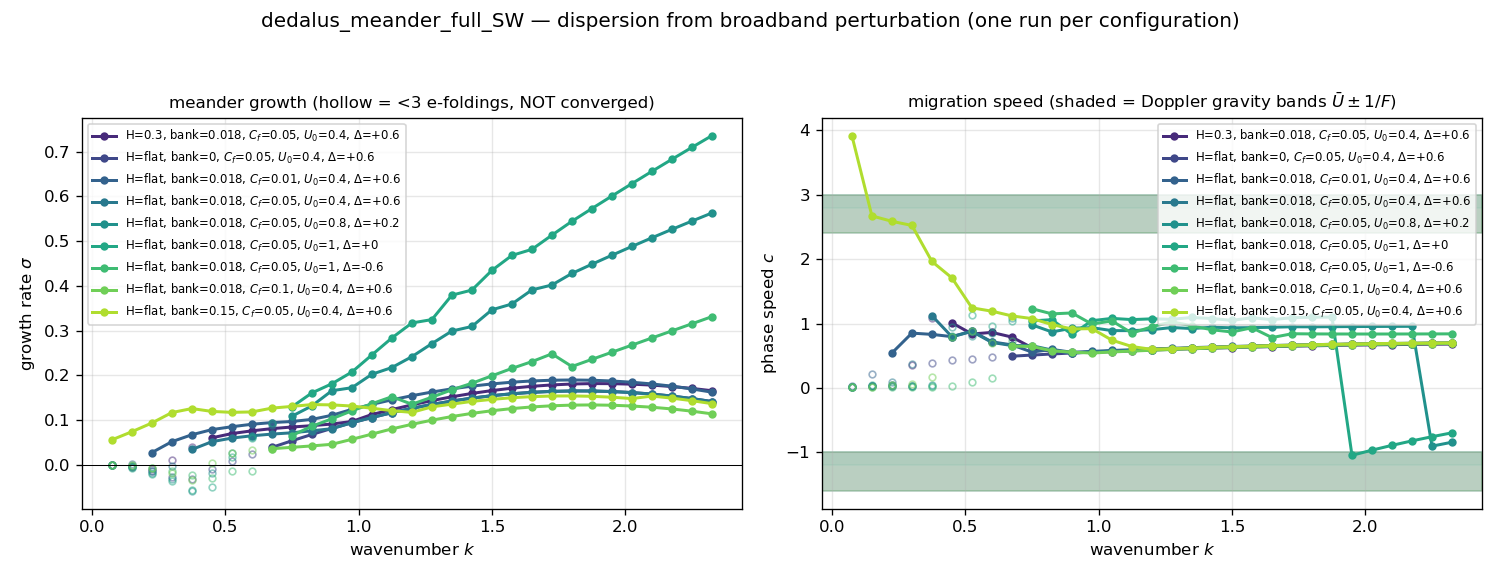
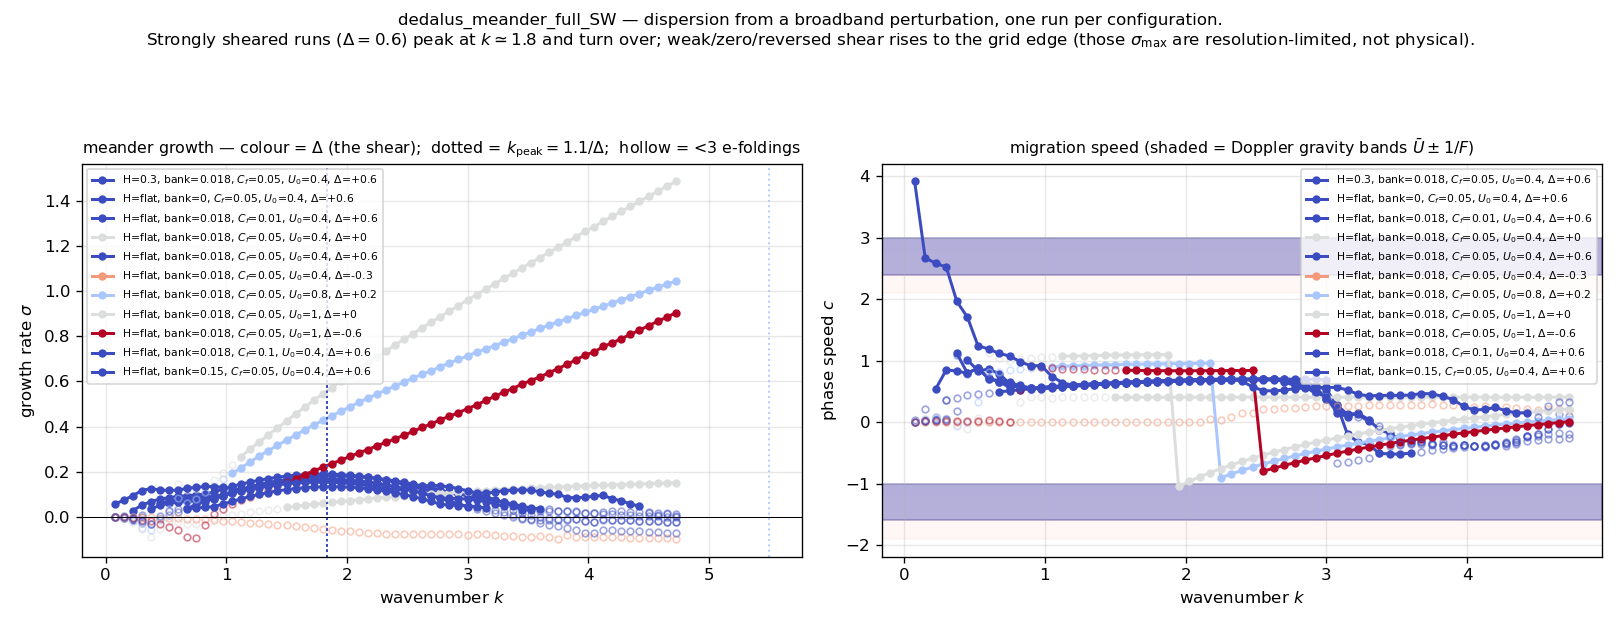
full_SW: controls overturn two conclusions; cutoff is shear, not viscosity
Ns=128 + two matched controls forced three corrections. Data (11 runs) was fine;
the docs were asserting conclusions their own data refutes.

1. CONFOUND (inverts the decisive experiment). Ubar_s = U0 + Delta(1-n^2/b^2) has
   only two constants, so removing Delta must change either the bank speed or the
   centre speed -- no clean control exists. The original configs varied Delta while
   also raising U0 0.4 -> 1.0, and the Ikeda erosion law reads u_s AT THE BANK, so
   "removed the channel-beta" was conflated with "sped up the bank".
   At matched bank speed U0=0.40, compared at the fixed resolved k=1.8:
       Delta=+0.6  sigma=+0.1649   grows
       Delta= 0.0  sigma=+0.0599   grows, 2.75x SLOWER  (was claimed FASTER)
       Delta=-0.3  sigma=-0.0526   STABLE               (was claimed to grow)
   Survives: sigma>0 with the vorticity gradient identically zero => not
   beta-restored. Deleted: "grows fastest", "most informative thing in the table".
   Both controls added to experiments.py as first-class configs.

2. The k~1.8 peak is the SHEAR cutoff, not the viscous one. Fitting sigma=ak-bk^2:
   nu=0.003 but b~0.079 (26x nu), and b tracks Delta (0.079/0.038/0.033/-0.003 for
   Delta=0.6/0.2/0/-0.6; reversed shear anti-damps). k_peak*Delta = 1.10 +/- 3%
   across Cf x10, flat->parabolic bed, bank 0->0.15. The old argument ("k_max barely
   moves across 10x Cf, so it is the nu cutoff") was under-determined: all six of
[…]

diff --git a/numerical/dedalus_meander_full_SW/derivations/sw_sn_meander.tex b/numerical/dedalus_meander_full_SW/derivations/sw_sn_meander.tex
@@ -465,15 +465,21 @@ regulariser.
 Three consequences must be stated plainly, because they bound what any result here
 can mean.
 
-\paragraph{(i) No sediment, therefore no wavelength selection.} The bed $H$ is
-prescribed and only the banks move. Meander wavelength selection is understood as a
-resonance between the forced bend flow and the \emph{free alternate-bar mode of the
-sediment bed} \cite{blondeaux1985,seminara2006,camporeale2007}. With the bed frozen
-that free mode does not exist, so this model \emph{cannot} select a wavelength: the
-$C'=-\partial_s^2\zeta_c$ forcing scales as $k^2$ while the response scales as $k$,
-giving $\sigma$ growing monotonically with $k$ until the artificial viscosity cuts
-it off. The selected wavelength is therefore set by $\nu$, not by physics, and no
-comparison with the observed $\lambda\approx10W$ \cite{leopold1960} is meaningful.
+\paragraph{(i) No sediment, therefore not the \emph{observed} wavelength selection.}
+The bed $H$ is prescribed and only the banks move. Meander wavelength selection is
+understood as a resonance between the forced bend flow and the \emph{free alternate-bar
+mode of the sediment bed} \cite{blondeaux1985,seminara2006,camporeale2007}. With the bed
+frozen that free mode does not exist. The driving is short-wave biased --- the
+$C'=-\partial_s^2\zeta_c$ forcing scales as $k^2$ while the response scales as $k$ ---
+so a preferred wavenumber can only come from whatever damps short waves.
+
+It turns out something does, and it is not the artificial viscosity: measurements in
+\S\ref{sec:results} give a $k^2$ damping coefficient about twenty-six times $\nu$, set by
+the cross-channel shear, with $k_{\rm peak}\Delta\simeq1.10$. So the model does select a
+scale --- by shear, not by bar--bend resonance. It is the wrong mechanism for a river,
+and it disappears as $\Delta\to0$ (whereupon the peak retreats to the genuine viscous
+cutoff), so no comparison with the observed $\lambda\approx10W$ \cite{leopold1960} is
+warranted. The point of this subsection stands; only the reason does not.
 
 \paragraph{(ii) The erodibility is not in the geomorphic regime.} Field calibration
 gives $E/U\sim10^{-8}$ \cite{hasegawa1977,nanson1986}; the default here is
@@ -536,32 +542,68 @@ the disturbance.}
 \label{tab:results}
 \end{table}
 
-Three readings follow, and none of them is the headline one might have hoped for.
+Four readings follow. The first kills the headline one might have hoped for; the second
+and third are corrections to earlier versions of this section that the controls forced,
+and are recorded as such rather than quietly rewritten.
 
-\paragraph{The mean flow is a sink, not the power source.} $T_{\rm shear}<0$ in every
-configuration. Whatever is growing is \emph{not} extracting wave activity from the
-background vorticity gradient, so by the criterion of \S\ref{sec:classify} it is not a
-free vortical (Rossby-type) wave. The energy comes from $T_{\rm bend}$ --- the work
-done on the fluid by the moving bank --- which is to say from the erosion closure.
+\paragraph{The mean flow is a sink, not the power source.} Across all eleven runs the
+correlation is exact: \textbf{every growing run has $T_{\rm shear}\le0$, and the single
+run with $T_{\rm shear}>0$ is the one that decays} (the matched reversed-shear control,
+$T_{\rm shear}/|T_{\rm bend}|=+0.42$, $\sigma(k{=}1.8)=-0.053$). Whenever this
+disturbance grows it is \emph{losing} energy to the background vorticity gradient rather
+than extracting it, so by the criterion of \S\ref{sec:classify} it is not a free vortical
+(Rossby-type) wave; the energy comes from $T_{\rm bend}$, the work done on the fluid by
+the moving bank. Only the \emph{sign} of this ratio should be quoted: its magnitude is
+resolution-sensitive (the reference run gives $-3.16$ at $N_s=64$ and $-0.36$ at
+$N_s=128$), because the diagnostic is evaluated on the final field and the resolved mode
+mix changes with $N_s$.
 
-\paragraph{The channel-$\beta$ is not necessary.} The sharpest test is the plug-flow
-run, $\Delta=0$: the shear, and with it the entire ``channel $\beta$'' of
-\eqref{eq:beta}, is identically zero, and $T_{\rm shear}\equiv0$ by construction. The
-meander nevertheless grows --- in fact faster than the sheared reference. A mechanism
-that survives the removal of $\beta$ cannot be a $\beta$-restored wave. The
-reversed-shear run ($\Delta<0$) grows too. This is a null result, and it is the most
-informative thing in the table.
+\paragraph{The channel-$\beta$ is not necessary --- but it is not irrelevant either,
+and an earlier version of this section got that wrong.} The profile
+$\Us=U_0+\Delta(1-n^2/b^2)$ has only two free constants, so removing $\Delta$ must
+change either the bank speed $U_0$ or the centre speed: \emph{no perfectly clean control
+exists}. The first attempt varied $\Delta$ while also raising $U_0$ from $0.4$ to $1.0$,
+and since the erosion law reads $\us$ \emph{at the bank}, that conflated ``removed the
+channel-$\beta$'' with ``sped up the bank''. The confound inverts the answer. Holding
+the bank speed fixed at the reference value and varying only $\Delta$, compared at the
+fixed well-resolved wavenumber $k=1.8$:
+\begin{center}
+\begin{tabular}{lrl}
+\hline
+$\Delta$ & $\sigma(k{=}1.8)$ & \\
+\hline
+$+0.60$ (reference) & $+0.1649$ & grows\\
+$+0.00$ ($\beta$ removed) & $+0.0599$ & grows, but $2.75\times$ \emph{slower}\\
+$-0.30$ (reversed) & $-0.0526$ & \textbf{stable} (no mode converged)\\
+\hline
+\end{tabular}
+\end{center}
+What survives is the qualitative statement: with the background vorticity gradient
+\emph{identically zero} the meander still grows ($\sigma>0$), so the mechanism does not
+require $\beta$ and cannot be a $\beta$-restored wave. What does \emph{not} survive is
+the claim that it grows \emph{faster} without $\beta$ --- that was the $U_0$ confound.
+Removing $\beta$ weakens the instability by a factor $\simeq2.75$, and reversing the
+shear at matched bank speed suppresses it altogether.
 
-\paragraph{There is no \emph{physical} wavelength selection.} The growth curve does have
-a maximum at finite $k$ in six of the nine runs ($k_{\max}\simeq1.80$--$1.88$); in the
-three weak- or reversed-shear runs it rises to the edge of the resolved band. The
-interior maximum is not a selection mechanism, and the table is what shows this:
-$k_{\max}$ barely moves while $C_f$ changes by a factor of ten, the bed goes from flat
-to a parabolic thalweg, and the bank sinuosity goes from $0$ to $0.15$. A peak whose
-position is independent of every physical parameter one varies is the viscous cutoff,
-not physics --- exactly as \S\ref{sec:notcontain}(i) predicts on structural grounds:
-with the bed frozen, nothing in the model sets a length scale except $\nu$. No
-comparison with the observed $\lambda\approx10W$ is therefore meaningful.
+\paragraph{Wavelength selection: there is one, and it comes from the shear.} This too
+corrects an earlier reading. Fitting $\sigma\simeq ak-bk^{2}$ gives $k_{\rm peak}=a/2b$,
+and the measured damping coefficient is $b\approx0.079$ while $\nu=0.003$ --- the $k^2$
+damping that produces the peak is some \textbf{twenty-six times larger than the explicit
+viscosity}, so the cutoff is not viscous. It tracks the shear instead:
+$b=0.079,\,0.038,\,0.033,\,-0.003$ for $\Delta=0.6,\,0.2,\,0.0,\,-0.6$ (reversed shear
+\emph{anti}-damps), and the peak obeys
+\begin{equation}
+  \boxed{\;k_{\rm peak}\,\Delta\simeq1.10\;}
+\end{equation}
+to within $\pm3\%$ across a tenfold change in $C_f$, a flat-to-parabolic bed, and bank
+sinuosity $0\to0.15$. The earlier argument --- ``$k_{\max}$ barely moves while $C_f$
+changes tenfold, therefore it is the $\nu$ cutoff'' --- was under-determined, because
+all six of those runs held $\Delta=0.6$; ``$\Delta$-set'' fits the same evidence, and
+varying $\Delta$ discriminates. As $\Delta\to0$ the shear damping vanishes and the peak
+retreats to a residual viscous-plus-drag cutoff ($b_0\approx0.011$, $k_{\rm peak}=4.30$).
+So the model does select a length scale, but by cross-channel shear, not by the
+bar--bend resonance of \S\ref{sec:notcontain}(i); a comparison with the observed
+$\lambda\approx10W$ remains unwarranted.
 
 \paragraph{Why the movies look untidy, and why that is not numerical noise.}
 The perturbation field never settles into a single clean travelling wave, and it is
@@ -608,12 +650,26 @@ range to the diagnostic rather than to how fast a configuration happens to grow,
 is why the fast runs are integrated over a shorter interval than the slow ones.
 
 \paragraph{What the model \emph{is}, then.} A forced morphodynamic boundary mode:
-balanced (the divergence ratio is small and $F$ barely matters, both consistent with
-the rigid-lid reduction), but driven by the erodible boundary rather than by the
-interior PV gradient. The growth rate vanishes with the erodibility, $\sigma\propto E$
---- it is not an eigenvalue of the flow alone. The useful corollary is a validation
-result: since the free surface is passive here, the rigid-lid packages in \code{../}
-are justified for $F\lesssim0.9$.
+balanced --- the divergence ratio is $\|\delta'\|/\|\zeta'\|\simeq0.010$--$0.051$, and
+$F$ barely matters, both consistent with the rigid-lid reduction --- but driven by the
+erodible boundary rather than by the interior PV gradient. The growth rate vanishes with
+the erodibility, $\sigma\propto E$: it is not an eigenvalue of the flow alone. The
+cross-channel shear then shapes it, setting both the amplitude (a factor $2.75$ between
+$\Delta=0.6$ and $\Delta=0$, and outright stability for $\Delta<0$ at matched bank speed)
+and the selected wavenumber ($k_{\rm peak}\Delta\simeq1.10$) --- but it never
+\emph{powers} it, since $T_{\rm shear}\le0$ in every growing run. The useful corollary is
+a validation result: since the free surface is passive here, the rigid-lid packages in
+\code{../} are justified for $F\lesssim0.9$.
+
+\paragraph{A methodological note worth keeping.} Two of the four readings above are
+corrections, and both were caught the same way --- not by re-deriving, but by refining a
+numerical parameter and by adding a control that held fixed the variable which had been
+riding along. The $U_0$/$\Delta$ confound was invisible at $N_s=64$ because the runs it
+corrupted were exactly the runs whose $\sigma(k)$ had not converged; doubling $N_s$ made
+their growth rates move ($\sigma_{\max}$: $0.74\to1.49$), which is what prompted the
+control in the first place. A parameter that cannot be varied independently --- here,
+because $\Us$ has only two constants --- should be treated as confounded by default and
+reported with an explicitly matched comparison, not with each run's own optimum.
 
 \begin{thebibliography}{99}
 \bibitem{ikeda1981} Ikeda, S., Parker, G. \& Sawai, K. (1981) Bend theory of river

diff --git a/numerical/dedalus_meander_full_SW/postprocessing/01_dispersion.py b/numerical/dedalus_meander_full_SW/postprocessing/01_dispersion.py
@@ -23,12 +23,21 @@ import matplotlib.pyplot as plt
 
 import pp_lib as PP
 
+# measured in the parameter study: the short-wave cutoff is set by the SHEAR, not by nu
+KD_LAW = 1.10
+
 runs = sorted(glob.glob(os.path.join(PP.OUT_DIR, "run_*.h5")))
 if not runs:
     raise SystemExit("no ../outputs/run_*.h5 — run ../sw_sn_driver.py first")
 
-fig, (ax1, ax2) = plt.subplots(1, 2, figsize=(12.5, 4.8), dpi=120)
-colors = plt.cm.viridis(np.linspace(0.12, 0.88, len(runs)))
+fig, (ax1, ax2) = plt.subplots(1, 2, figsize=(13.5, 5.2), dpi=120)
+
+# Colour by Delta, not by filename order.  Delta is what controls the short-wave cutoff
+# (k_peak*Delta ~ 1.10), so an arbitrary per-file colour hides the one systematic the
+# figure exists to show.
+_D = [float(PP.load_run(p)["attrs"]["Delta"]) for p in runs]
+_norm = plt.Normalize(min(_D + [-0.6]), max(_D + [0.6]))
+colors = [plt.cm.coolwarm_r(_norm(d)) for d in _D]
 
 for path, col in zip(runs, colors):
     r = PP.load_run(path)
@@ -43,6 +52,11 @@ for path, col in zip(runs, colors):
            f", $U_0$={float(a['U0']):.2g}, $\\Delta$={float(a['Delta']):+.2g}")
     ax1.plot(k[ok], sg[ok], "o-", color=col, lw=1.8, ms=4, label=lab)
     ax1.plot(k[~ok], sg[~ok], "o", mfc="none", color=col, ms=4, alpha=0.5)
+    # the measured law k_peak * Delta ~ 1.10: mark where it PREDICTS this run's peak,
+    # so the figure tests the claim instead of merely being consistent with it
+    D = float(a["Delta"])
+    if D > 0.05 and np.any(ok):
+        ax1.axvline(KD_LAW / D, color=col, ls=":", lw=1.2, alpha=0.85)
     ax2.plot(k[ok], c[ok], "o-", color=col, lw=1.8, ms=4, label=lab)
     ax2.plot(k[~ok], c[~ok], "o", mfc="none", color=col, ms=4, alpha=0.5)
     # Doppler-shifted gravity band: the correct reference is Ubar +/- 1/F, not 1/F
@@ -53,14 +67,19 @@ for path, col in zip(runs, colors):
 
 ax1.axhline(0, color="k", lw=0.6)
 ax1.set_xlabel(r"wavenumber $k$"); ax1.set_ylabel(r"growth rate $\sigma$")
-ax1.set_title(r"meander growth (hollow = <3 e-foldings, NOT converged)", fontsize=10)
-ax1.legend(fontsize=7); ax1.grid(alpha=0.3)
+ax1.set_title(r"meander growth — colour = $\Delta$ (the shear);  dotted = "
+              rf"$k_{{\rm peak}}={KD_LAW:g}/\Delta$;  hollow = <3 e-foldings",
+              fontsize=9.5)
+ax1.legend(fontsize=6.5, loc="upper left"); ax1.grid(alpha=0.3)
 ax2.set_xlabel(r"wavenumber $k$"); ax2.set_ylabel(r"phase speed $c$")
-ax2.set_title(r"migration speed (shaded = Doppler gravity bands $\bar U\pm1/F$)", fontsize=10)
-ax2.legend(fontsize=7); ax2.grid(alpha=0.3)
-fig.suptitle("dedalus_meander_full_SW — dispersion from broadband perturbation "
-             "(one run per configuration)", fontsize=12)
-fig.tight_layout(rect=[0, 0, 1, 0.94])
+ax2.set_title(r"migration speed (shaded = Doppler gravity bands $\bar U\pm1/F$)", fontsize=9.5)
+ax2.legend(fontsize=6.5); ax2.grid(alpha=0.3)
+fig.suptitle("dedalus_meander_full_SW — dispersion from a broadband perturbation, one run "
+             "per configuration.\nStrongly sheared runs ($\\Delta{=}0.6$) peak at "
+             "$k\\simeq1.8$ and turn over; weak/zero/reversed shear rises to the grid edge "
+             "(those $\\sigma_{\\max}$ are resolution-limited, not physical).",
+             fontsize=10)
+fig.tight_layout(rect=[0, 0, 1, 0.90])
 out = os.path.join(PP.FIG_DIR, "fig01_dispersion.png")
 fig.savefig(out)
 print(f"wrote {os.path.relpath(out, PP.PKG)}  ({len(runs)} configuration(s))")

diff --git a/numerical/dedalus_meander_full_SW/derivations/results_table.tex b/numerical/dedalus_meander_full_SW/derivations/results_table.tex
@@ -1,16 +1,20 @@
 % AUTO-GENERATED by make_results_table.py -- do not edit by hand
-\begin{tabular}{llllr|rrrrr}
+\begin{tabular}{llllr|rrrrrr}
 \hline
-bed $H$ & bank & $C_f$ & $U_0$ & $\Delta$ & $k_{\max}$ & $\sigma$ & $c$ & $\|\delta'\|/\|\zeta'\|$ & $T_{\rm shear}/|T_{\rm bend}|$\\
+bed $H$ & bank & $C_f$ & $U_0$ & $\Delta$ & $\sigma(k{=}1.8)$ & $k_{\max}$ & $\sigma_{\max}$ & $c$ & $\|\delta'\|/\|\zeta'\|$ & $T_{\rm shear}/|T_{\rm bend}|$\\
 \hline
-0.3 & 0.018 & 0.05 & 0.4 & +0.6 & 1.88 & +0.1815 & +0.659 & 0.0514 & -4.902\\
-flat & 0 & 0.05 & 0.4 & +0.6 & 1.80 & +0.1651 & +0.666 & 0.0099 & -3.150\\
-flat & 0.018 & 0.01 & 0.4 & +0.6 & 1.80 & +0.1895 & +0.671 & 0.0100 & -3.341\\
-flat & 0.018 & 0.05 & 0.4 & +0.6 & 1.80 & +0.1649 & +0.666 & 0.0099 & -3.156\\
-flat & 0.018 & 0.05 & 0.8 & +0.2 & 2.32 & +0.5628 & -0.844 & 0.0158 & -0.772\\
-flat & 0.018 & 0.05 & 1 & +0 & 2.32 & +0.7356 & -0.698 & 0.0221 & -0.000\\
-flat & 0.018 & 0.05 & 1 & -0.6 & 2.32 & +0.3311 & +0.839 & 0.0110 & -36.810\\
-flat & 0.018 & 0.1 & 0.4 & +0.6 & 1.88 & +0.1338 & +0.665 & 0.0099 & -3.584\\
-flat & 0.15 & 0.05 & 0.4 & +0.6 & 1.80 & +0.1539 & +0.670 & 0.0177 & -4.068\\
+0.3 & 0.018 & 0.05 & 0.4 & +0.6 & +0.1805 & 1.88 & +0.1815 & +0.659 & 0.0514 & -0.426\\
+flat & 0 & 0.05 & 0.4 & +0.6 & +0.1651 & 1.80 & +0.1651 & +0.666 & 0.0099 & -0.361\\
+flat & 0.018 & 0.01 & 0.4 & +0.6 & +0.1895 & 1.80 & +0.1895 & +0.671 & 0.0099 & -0.375\\
+flat & 0.018 & 0.05 & 0.4 & +0 & +0.0599 & 4.72$^{\dagger}$ & +0.1507$^{\dagger}$ & +0.405 & 0.0033 & -0.000\\
+flat & 0.018 & 0.05 & 0.4 & +0.6 & +0.1649 & 1.80 & +0.1649 & +0.666 & 0.0099 & -0.361\\
+flat & 0.018 & 0.05 & 0.4 & -0.3 & -0.0526 & \emph{stable} & \emph{stable} & \emph{stable} & 0.1924 & +0.420\\
+flat & 0.018 & 0.05 & 0.8 & +0.2 & +0.4273 & 4.72$^{\dagger}$ & +1.0446$^{\dagger}$ & +0.056 & 0.0105 & -1.233\\
+flat & 0.018 & 0.05 & 1 & +0 & +0.5454 & 4.72$^{\dagger}$ & +1.4867$^{\dagger}$ & +0.216 & 0.0177 & -0.000\\
+flat & 0.018 & 0.05 & 1 & -0.6 & +0.2194 & 4.72$^{\dagger}$ & +0.9042$^{\dagger}$ & +0.008 & 0.0139 & -20.084\\
+flat & 0.018 & 0.1 & 0.4 & +0.6 & +0.1334 & 1.88 & +0.1338 & +0.665 & 0.0098 & -0.321\\
+flat & 0.15 & 0.05 & 0.4 & +0.6 & +0.1540 & 1.80 & +0.1540 & +0.670 & 0.0103 & -0.330\\
 \hline
 \end{tabular}
+
+\smallskip\noindent$^{\dagger}$\,4 run(s): $\sigma(k)$ is still \emph{rising} at the last resolved wavenumber, so $k_{\max}$ and $\sigma_{\max}$ are set by $N_s$ and not by the equations (they moved from $k{=}2.32,\sigma{=}0.74$ to $k{=}4.72,\sigma{=}1.49$ when $N_s$ was doubled). Compare these rows only through the fixed-$k$ column.

diff --git a/numerical/dedalus_meander_full_SW/derivations/make_results_table.py b/numerical/dedalus_meander_full_SW/derivations/make_results_table.py
@@ -81,15 +81,23 @@ def main():
           rf"$\sigma(k{{=}}{K_REF:g})$ & $k_{{\max}}$ & $\sigma_{{\max}}$ & $c$ "
           r"& $\|\delta'\|/\|\zeta'\|$ & $T_{\rm shear}/|T_{\rm bend}|$\\"), r"\hline"]
     for r in rows:
-        # a growth rate whose maximum sits at the grid edge is a property of Ns, not of
-        # the equations: mark it so it can never be read as a converged number
-        mk = "" if r["kconv"] else r"$^{\dagger}$"
+        if not np.isfinite(r["k"]):
+            # nothing grew at all -- a STABLE configuration, which is a result, not a
+            # missing number, and emphatically not a resolution problem
+            kcell = scell = ccell = r"\emph{stable}"
+        else:
+            # a growth rate whose maximum sits at the grid edge is a property of Ns, not
+            # of the equations: mark it so it can never be read as a converged number
+            mk = "" if r["kconv"] else r"$^{\dagger}$"
+            kcell = f"{r['k']:.2f}{mk}"
+            scell = f"{r['sigma']:+.4f}{mk}"
+            ccell = f"{r['c']:+.3f}"
         L.append(f"{r['bed']} & {r['bank']:.3g} & {r['Cf']:.3g} & {r['U0']:.2g} & "
-                 f"{r['Delta']:+.2g} & {r['s_ref']:+.4f} & {r['k']:.2f}{mk} & "
-                 f"{r['sigma']:+.4f}{mk} & {r['c']:+.3f} & {r['div']:.4f} & "
-                 f"{r['ratio']:+.3f}\\\\")
+                 f"{r['Delta']:+.2g} & {r['s_ref']:+.4f} & {kcell} & {scell} & "
+                 f"{ccell} & {r['div']:.4f} & {r['ratio']:+.3f}\\\\")
     L += [r"\hline", r"\end{tabular}"]
-    nbad = sum(not r["kconv"] for r in rows)
+    # a stable run has no k_max to be unconverged about -- don't count it as flagged
+    nbad = sum(not r["kconv"] and np.isfinite(r["k"]) for r in rows)
     if nbad:
         L += [r"", (rf"\smallskip\noindent$^{{\dagger}}$\,{nbad} run(s): $\sigma(k)$ is still "
                     r"\emph{rising} at the last resolved wavenumber, so $k_{\max}$ and "

diff --git a/numerical/dedalus_meander_full_SW/experiments.py b/numerical/dedalus_meander_full_SW/experiments.py
@@ -48,8 +48,20 @@ CONFIGS = [
     ("friction: low",        dict(Cf=0.010)),
     ("friction: high",       dict(Cf=0.100)),
     ("U0: fast banks",       dict(U0=0.80, Delta=0.20)),
-    ("jet: plug (no shear)", dict(U0=1.00, Delta=0.00)),
-    ("jet: reversed shear",  dict(U0=1.00, Delta=-0.60)),
+    # --- CONFOUNDED pair, kept only as a cautionary record -------------------- #
+    # These vary Delta but ALSO raise U0 to 1.0.  U0 is the speed at the BANK, and the
+    # erosion law reads u_s there, so they conflate "removed the channel-beta" with
+    # "sped up the bank" -- and the confound inverts the answer (they appear to grow
+    # FASTER without shear; the matched controls below show the opposite).
+    ("jet: plug, U0 raised (CONFOUNDED)",     dict(U0=1.00, Delta=0.00)),
+    ("jet: reversed, U0 raised (CONFOUNDED)", dict(U0=1.00, Delta=-0.60)),
+    # --- the DECISIVE controls: bank speed held at the reference value --------- #
+    # Ubar_s(n)=U0+Delta(1-n^2/b^2) has only two knobs, so removing Delta MUST change
+    # either the bank speed or the centre speed -- there is no perfectly clean control.
+    # Since the erosion is driven at the bank, holding U0 fixed is the comparison that
+    # isolates the channel-beta, and it is the one to quote.
+    ("CONTROL plug, matched bank speed",     dict(U0=0.40, Delta=0.00)),
+    ("CONTROL reversed, matched bank speed", dict(U0=0.40, Delta=-0.30)),
 ]
 
 

diff --git a/numerical/dedalus_meander_full_SW/README.md b/numerical/dedalus_meander_full_SW/README.md
@@ -85,12 +85,39 @@ cd postprocessing
 and — the decisive test — whether the mean-flow PV gradient actually powers it
 (`T_shear > 0`) or is an energy sink (`T_shear ≤ 0`). `classify_mode()` reports these.
 
+### Results (11 runs, Ns=128)
+
+**It is not a free vortical/Rossby wave.** Across all runs the correlation is exact:
+every **growing** run has `T_shear ≤ 0`, and the single run with `T_shear > 0` is the one
+that **decays**. When this thing grows it is *losing* energy to the mean flow. Quote only
+the **sign** — the magnitude is resolution-sensitive (reference: −3.16 at Ns=64, −0.36 at
+Ns=128).
+
+**The channel-β is not necessary, but it is not irrelevant.** `Ūs = U0 + Δ(1−n²/b²)` has
+only two constants, so removing Δ *must* change either the bank speed or the centre speed
+— there is no perfectly clean control. Since erosion is driven at the bank, hold `U0`
+fixed. At the fixed well-resolved k = 1.8:
+
+| Δ | σ(k=1.8) | |
+|---|---|---|
+| +0.60 (reference) | **+0.1649** | grows |
+| +0.00 (β removed) | **+0.0599** | grows, but **2.75× slower** |
+| −0.30 (reversed) | **−0.0526** | **stable** |
+
+So σ > 0 with the background vorticity gradient *identically zero* ⇒ the mechanism does
+not require β and cannot be β-restored. ⚠️ An earlier version claimed it grows **faster**
+without β — that was a confound: those runs also raised `U0` 0.4→1.0. See the two
+`CONTROL …, matched bank speed` configs in `experiments.py`.
+
 **Cannot:**
-- **Select a meander wavelength.** The bed is prescribed (no Exner), so the free
-  alternate-bar mode that sets λ by bar–bend resonance does not exist. σ(k) has a
-  maximum at k ≈ 1.8 in 6 of the 9 runs, but it barely moves across a 10× change in
-  `C_f`, a flat→parabolic bed, and bank sinuosity 0→0.15 — a peak independent of every
-  physical knob is the ν cutoff, not selection. No comparison with λ ≈ 10 W is meaningful.
+- **Select the *observed* meander wavelength.** The bed is prescribed (no Exner), so the
+  free alternate-bar mode that sets λ by bar–bend resonance does not exist. The model
+  *does* select a scale, but by the wrong mechanism: the k² damping is ~26× ν and is set
+  by the **cross-channel shear**, giving **k_peak · Δ ≈ 1.10** (±3% across C_f ×10,
+  flat→parabolic bed, bank 0→0.15). As Δ→0 that vanishes and the peak retreats to the
+  genuine viscous cutoff. No comparison with λ ≈ 10 W is warranted.
+  *(An earlier version attributed this peak to ν. That was under-determined — all six
+  runs behind it held Δ=0.6; varying Δ discriminates.)*
 
 ### Why the movies look busy (it is not numerical noise)
 

diff --git a/numerical/README.md b/numerical/README.md
@@ -39,7 +39,7 @@ One package per item in [`../literature/`](../literature/): each is a self-conta
 | [`dedalus_meander/`](dedalus_meander/) | **the deck-p.8 numerical model, rung 1** (Dedalus v3 2-D channel) | d3 EVP ≡ vorticity_lib GEP to 1e−8 across all 6 deck sets × 2 closures; multi-wavelength erodible-bank IVP reproduces the full dispersion (growth band k*²<2D, upstream c*<0) by per-mode demodulation; free-mode flux ratio (γ+σ)/2D verified to 0.00% |
 | [`dedalus_meander2/`](dedalus_meander2/) | **variable-depth PV generalization** (deck-p.8 erodible bottom, rung 2) | drops the flat bed → PV conservation D/Dt(ζ/H) + topographic-shear β=∂y(ζ̄/H̄); single-driver architecture (one Dedalus file → HDF5; all viz in postprocessing/). ζ-auxiliary + Ĥ²-weighted well-banded form. Verified: flat-bed reduction **0.0**, d3 EVP vs FD-GEP **4e−9** (flat+bumped, both closures), IVP vs EVP **0.1%**; deeper thalweg shifts the group-velocity flip k_g. Honest: non-rotating ⇒ bed modulates shear-β (D=0→no β; f0 knob for true topo-Rossby); x-varying bed deferred |
 | [`dedalus_rigid_lid_to_share/`](dedalus_rigid_lid_to_share/) | **single-file rigid-lid model, for sharing** | one self-contained `rigid_lid_meander.py`: edit the CONFIG at the top, run, get an erodible-bank IVP. Supports a general **H(x,y)** bed; prognostic q=ζ/H with a discharge-conserving u₀=H̄ū/H; no verification ladder, no CLI — straight into the IVP. Meant for other Dedalus users to modify, not for this repo's results (demo: ×58 bank growth) |
-| [`dedalus_meander_full_SW/`](dedalus_meander_full_SW/) | **full shallow-water, curvilinear (s,n)** (what wave is the meander?) | keeps the **free surface η** (mass eqn has η_t) ⇒ gravity waves AND the vortical wave coexist; flow **divergent** (no streamfunction — solve (u_s,u_n,η), diagnose PV). Finite-amplitude meander in channel-fitted (s,n), σ=1+nC̄; parabolic jet (const channel-β), superelevation; erodible **centerline** via antisymmetric near-bank velocity (Ikeda); IVP-only. Perturbation is **broadband** (all k at once ⇒ one run = the whole dispersion relation), so runs are keyed to physics `H·bank·C_f·U₀·Δ`, never to a seeded wavelength. **Result (headline RETRACTED 2026-07-21):** the earlier "meander = the vortical/Rossby wave" claim does *not* survive its own diagnostics — `T_shear<0` in all 9 configurations (mean flow is an energy **sink**, not the source), the meander still grows with the channel-β removed entirely (`Δ=0` plug flow grows *fastest*), and a smooth single-signed ∂ₙq̄ admits no discrete vortical mode (Case 1960). The Froude test is analytically null by construction (F enters only as F² on continuity). Honest reframing: a **forced morphodynamic boundary mode** — balanced, but bank-driven (σ∝E), with no wavelength selection (bed frozen ⇒ no Exner ⇒ σ rises to the ν cutoff). Useful corollary: the free surface is passive ⇒ the rigid-lid packages above are **validated for F≲0.9**. Outputs: dispersion figure + one absolute-Eulerian momentum-flux movie per configuration |
+| [`dedalus_meander_full_SW/`](dedalus_meander_full_SW/) | **full shallow-water, curvilinear (s,n)** (what wave is the meander?) | keeps the **free surface η** (mass eqn has η_t) ⇒ gravity waves AND the vortical wave coexist; flow **divergent** (no streamfunction — solve (u_s,u_n,η), diagnose PV). Finite-amplitude meander in channel-fitted (s,n), σ=1+nC̄; parabolic jet (const channel-β), superelevation; erodible **centerline** via antisymmetric near-bank velocity (Ikeda); IVP-only. Perturbation is **broadband** (all k at once ⇒ one run = the whole dispersion relation), so runs are keyed to physics `H·bank·C_f·U₀·Δ`, never to a seeded wavelength. **Result (headline RETRACTED 2026-07-21):** the "meander = the vortical/Rossby wave" claim does *not* survive its own diagnostics. 11 runs at Ns=128 (σ(k) converged vs Ns=64 to **0.0–0.1%**): **every growing run has `T_shear ≤ 0`, and the one run with `T_shear > 0` decays** — when it grows it is *losing* energy to the mean flow (quote the sign only; the magnitude is resolution-sensitive, −3.16→−0.36 from Ns 64→128). A smooth single-signed ∂ₙq̄ admits no discrete vortical mode anyway (Case 1960), and the Froude test is analytically null (F enters only as F² on continuity). **β is not necessary but not irrelevant:** at *matched bank speed* U₀=0.4, σ(k=1.8) = +0.165 (Δ=0.6) → +0.060 (Δ=0, β removed, still unstable) → −0.053 (Δ=−0.3, **stable**) — 2.75× weaker without β, not faster (an earlier claim of "grows fastest" was a U₀ confound, now controlled). **Wavelength selection exists but by the wrong mechanism:** the k² damping is ~26× ν and shear-set, **k_peak·Δ ≈ 1.10** (±3% across C_f ×10, bed, bank 0→0.15). Honest reframing: a **forced morphodynamic boundary mode** — balanced (‖δ'‖/‖ζ'‖ ≈ 0.01–0.05), bank-driven (σ∝E), shear-shaped. Corollary: the free surface is passive ⇒ the rigid-lid packages above are **validated for F≲0.9**. Outputs: dispersion figure + one absolute-Eulerian momentum-flux movie per configuration |
 | [`vorticity_meander/`](vorticity_meander/) | **the group's own theory** (6/30 deck) | **rebuilt from scratch 2026-07-12 (v2)**: pins re-digitized independently (agree with v1); p.5 box identity exact; rigid banks neutral; upstream c₀=−ED/γ_eff; TWO friction closures (deck-literal Rayleigh + Ikeda-consistent momentum drag) both fit all 6 phase intercepts (exact E↔2E degeneracy, ECOEF=0.5/1.0) — peak gap 3.2–4.4× (ray) vs 2.3–3.2× (mom): **friction closure alone ruled out as the explanation**; suspects now wavy-bank pressure drag + growth-axis normalization; see its `THEORY.md` for the equations vs Ikeda Eq. 7 |
 
 ## Quickstart